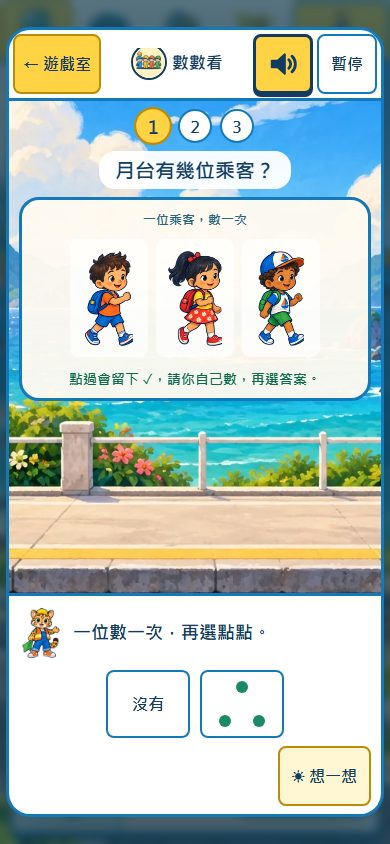
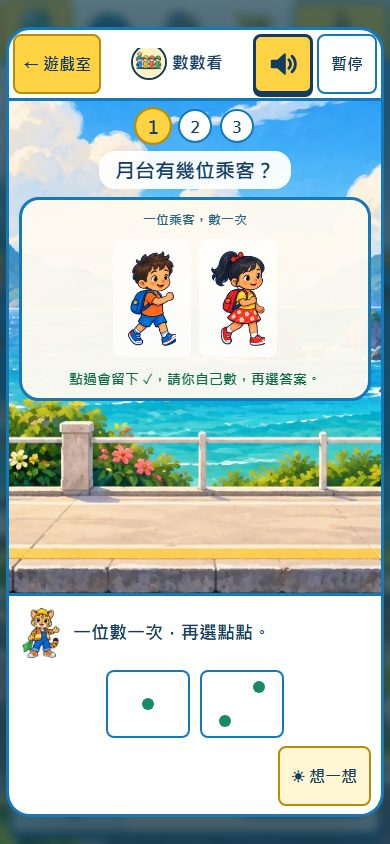
R49 上線前小修：顏色名字不拆行、數數看「0」改成圖、提示逗號查證
獨立複評 8.4 分可上線，上線前修三件小事（MUSE 要求的 9 張重畫照主控指示不做）：
- 橫式轉轍器提示第一行只剩「紫色」：phrase-wrap.js 把「顏色（＋形狀）＋列車／月台／車廂／箭頭／牌子」當一個名字，名字裡面不換行、可以在名字前面換行；句子開頭的名字後面不換行，第一個換行點至少在兩個詞之後。
- 數數看答案「沒有」改成空的骰子格加大「0」，按鈕無障礙名稱改為「答案 0，沒有」。
- 數數看提示的逗號：原文三種尺寸都是同一句「一位數一次，再選點點。」，本來就是全形逗號；直式截圖看起來像「・」，是微軟正黑體把逗號放在字格中間、1 倍 JPEG 縮小的結果。字沒改，附 3 倍放大證據。
- 測試：room-fix-r49.test.js 新增三項（所有顏色×形狀組合的提示不拆名字、第一行不只一個詞且名單和 RAIL_COLORS／RAIL_SHAPES 一致；0 的圖與無障礙名稱；三種年齡的提示都用全形逗號）。沒有改動或放寬既有測試。
- 瀏覽器檢查補上：第一行只剩一個詞、顏色／形狀跟後面的名詞分在兩行、三種尺寸的數數看提示文字要相同，並在真的提示泡泡裡逐一量 30 種顏色＋形狀開場提示；三種尺寸 0 個問題。重拍受影響截圖，新增 play-count-zero-phone.jpg、count-hint-comma-3x.png。

Changed region(s): [[0.2154, 0.2773, 0.7692, 0.4313], [0.5846, 0.8009, 0.6769, 0.8626], [0.3385, 0.8009, 0.4308, 0.8626]]

diff --git a/tests/math/room-fix-r49.test.js b/tests/math/room-fix-r49.test.js
@@ -64,3 +64,55 @@ test('R49 fix: one hint label everywhere, bigger counting passengers, and room t
   assert.match(css, /\.room-card-copy small\{font-size:13px;/, 'age line on cards 13 px');
   for (const [, size] of css.matchAll(/font-size:(\d+(?:\.\d+)?)px/g)) assert.ok(Number(size) >= 12, `room.css font-size ${size}px`);
 });
+
+// ---- 上線前小修（獨立複評 8.4 之後） ----
+import { LABEL_COLORS, LABEL_SHAPES, LABEL_NOUNS } from '../../src/shared/phrase-wrap.js';
+import { RAIL_COLORS, RAIL_SHAPES } from '../../src/games/puzzles/common.js';
+import { departTrain, switchLevels } from '../../src/games/puzzles/switch-platform.js';
+import { createRound, roundGuide } from '../../src/games/math/room-play.js';
+import { seededRandom } from '../../src/games/math/engine.js';
+
+test('R49 上線前: colour and shape names stay glued to 列車／月台 and the first line is never a single word', () => {
+  for (const c of Object.values(RAIL_COLORS)) assert.ok(LABEL_COLORS.includes(c.name), `${c.name} covered`);
+  for (const s of Object.values(RAIL_SHAPES)) assert.ok(LABEL_SHAPES.includes(s.name), `${s.name} covered`);
+  const names = [];
+  for (const c of LABEL_COLORS) for (const s of ['', ...LABEL_SHAPES]) for (const n of LABEL_NOUNS) names.push(c + s + n);
+  const hints = new Set();
+  for (const name of names) for (const other of names) hints.add(`${name}要開到${other}。點黃色的箭頭換方向，看亮起來的路通到哪裡。`);
+  for (const age of ['3-4', '5-6', '7-8']) for (let level = 0; level < switchLevels(age).length; level++) for (let seed = 1; seed < 25; seed++) {
+    let round = createSwitchRound({ age, level, seed });
+    hints.add(switchHint(round));
+    for (let n = 0; n < 4; n++) { const step = departTrain(round); hints.add(switchHint(step.round, step.result)); round = step.round; }
+  }
+  for (const text of hints) {
+    const html = phraseHtml(text), parts = html.split('<wbr>');
+    let at = 0;
+    for (const part of parts.slice(0, -1)) {
+      at += part.length;
+      for (const name of names) for (let i = text.indexOf(name); i >= 0; i = text.indexOf(name, i + 1))
+        assert.ok(at <= i || at >= i + name.length, `「${name}」 split in ${text}`);
+    }
+    if (parts.length > 1) {
+      const first = parts[0].replace(/[，、。！？]/g, '');
+      assert.ok(!names.includes(first) && !LABEL_COLORS.includes(first) && [...first].length > 2, `first line could be just 「${first}」 in ${text}`);
+    }
+  }
+});
+
+test('R49 上線前: zero is a picture (empty dice frame with a big 0), the label still says 沒有', () => {
+  const ui = read('src/games/math/room-ui.js'), css = read('src/games/math/room.css');
+  assert.match(ui, /n === 0 \? '<span class="dot-card dice dice-zero" aria-hidden="true"><b>0<\/b><\/span>'/);
+  assert.doesNotMatch(ui, /zero-dots|>沒有</, 'no 沒有 text on the button face');
+  assert.match(ui, /Number\(value\) === 0 \? '答案 0，沒有'/, 'screen readers still hear 沒有');
+  assert.match(css, /\.dot-card\.dice-zero\{[^}]*border:3px dashed/);
+  assert.match(css, /\.dot-card\.dice-zero b\{font:900 30px/);
+});
+
+test('R49 上線前: the counting hint uses the full-width comma at every age', () => {
+  for (const level of ['small', 'medium', 'large']) {
+    const round = createRound({ game: 'count', level, rng: seededRandom(5) });
+    const action = roundGuide(round).action;
+    assert.match(action, /^一位數一次，再選(點點|人數)。$/, action);
+    assert.doesNotMatch(action, /[・·•]/);
+  }
+});

diff --git a/src/shared/phrase-wrap.js b/src/shared/phrase-wrap.js
@@ -10,19 +10,37 @@ const CJK = /[\u3400-\u9fff]/;
 
 // 斷詞常切錯、但小朋友看到一定要連在一起的詞（例如「接上／下一節」被切成「上下｜一節」）。
 const KEEP = ['下一節', '上一節', '下一題', '下一站', '上一站', '下一班', '一樣多', '一樣重', '一樣長'];
+// 上線前小修：顏色＋形狀＋列車／月台是一個名字（「紫色列車」「紅色三角形月台」），整組黏在一起，不能讓第一行只剩「紫色」。
+// 名字前面可以換行（「要開到｜紅色三角形月台」），名字裡面不行。顏色、形狀和遊戲的 RAIL_COLORS／RAIL_SHAPES 一致（測試會核對）。
+export const LABEL_COLORS = Object.freeze(['藍色', '綠色', '紫色', '紅色', '橘色', '黃色']);
+export const LABEL_SHAPES = Object.freeze(['圓形', '三角形', '方形', '星星']);
+export const LABEL_NOUNS = Object.freeze(['列車', '月台', '車廂', '箭頭', '牌子']);
+const alt = list => list.join('|');
+const LABEL = new RegExp(`(${alt(LABEL_COLORS)})?(${alt(LABEL_SHAPES)})?(${alt(LABEL_NOUNS)})?`, 'g');
+const PUNCT = /[，、。！？；：,.!?;:\s「」『』（）]/;
 
 /** Escaped HTML for one line of child-facing Chinese text, with <wbr> only between two real (2+ character) words. */
 export function phraseHtml(text, { segment = segmenter } = {}) {
   const value = String(text ?? '');
   if (!segment) return esc(value);
-  const inside = new Set();
+  const inside = new Set(), before = new Set();
   for (const word of KEEP) for (let at = value.indexOf(word); at >= 0; at = value.indexOf(word, at + 1)) for (let i = 1; i < word.length; i++) inside.add(at + i);
-  let out = '', prev = null, pos = 0;
+  for (const m of value.matchAll(LABEL)) {
+    if (!m[0] || m.slice(1).filter(Boolean).length < 2) continue; // 至少兩段：顏色＋列車、顏色＋形狀、形狀＋月台…
+    const start = m.index, end = start + m[0].length;
+    for (let i = start + 1; i < end; i++) inside.add(i);
+    const clauseStart = start === 0 || PUNCT.test(value[start - 1]);
+    if (!clauseStart && CJK.test(value[start - 1])) before.add(start); // 「要開到｜紅色三角形月台」
+    if (clauseStart) inside.add(end); // 句子開頭的名字後面不斷，第一行不會只剩一個名字
+  }
+  let out = '', prev = null, pos = 0, words = 0;
   for (const { segment: piece, isWordLike } of segment.segment(value)) {
     const word = isWordLike && CJK.test(piece);
-    if (word && prev && [...prev].length >= 2 && [...piece].length >= 2 && !inside.has(pos)) out += '<wbr>';
+    // 第一個 <wbr> 至少要在兩個詞之後，第一行不會只剩一個詞（例如「看看｜車廂的規律」不斷在「看看」後面）。
+    if (words >= 2 && !inside.has(pos) && (before.has(pos) || (word && prev && [...prev].length >= 2 && [...piece].length >= 2))) out += '<wbr>';
     out += esc(piece);
     prev = word ? piece : null;
+    if (word) words++;
     pos += piece.length;
   }
   return out;

diff --git a/src/games/math/room-ui.js b/src/games/math/room-ui.js
@@ -45,7 +45,8 @@ const DATA_ACTIONS = [['answer', 'answer'], ['count', 'count'], ['order', 'order
 const passenger = index => `<img class="room-person" src="${art(`r5/passenger-${index % 6 + 1}-0.png`)}" alt="" width="48" height="76" draggable="false">`;
 // R49 修正輪：答案點點照骰子排（4 是 2×2、5 是四角加中間、6 是兩直排），3 排成三角形；位置是 3×3 格子的 1～9 號。
 const DICE = { 1: [5], 2: [3, 7], 3: [2, 7, 9], 4: [1, 3, 7, 9], 5: [1, 3, 5, 7, 9], 6: [1, 3, 4, 6, 7, 9], 7: [1, 3, 4, 5, 6, 7, 9], 8: [1, 2, 3, 4, 6, 7, 8, 9], 9: [1, 2, 3, 4, 5, 6, 7, 8, 9] };
-const dotCard = n => n === 0 ? '<span class="zero-dots">沒有</span>' : DICE[n] ? `<span class="dot-card dice" aria-label="${n} 個點">${DICE[n].map(cell => `<i class="dot-p${cell}"></i>`).join('')}</span>` : `<span class="dot-card" aria-label="${n} 個點">${'<i></i>'.repeat(n)}</span>`;
+// 上線前小修：0 不再寫「沒有」兩個字（3～4 歲看不懂），改成空的骰子格加一個大「0」；按鈕的無障礙名稱仍說「沒有」。
+const dotCard = n => n === 0 ? '<span class="dot-card dice dice-zero" aria-hidden="true"><b>0</b></span>' : DICE[n] ? `<span class="dot-card dice" aria-label="${n} 個點">${DICE[n].map(cell => `<i class="dot-p${cell}"></i>`).join('')}</span>` : `<span class="dot-card" aria-label="${n} 個點">${'<i></i>'.repeat(n)}</span>`;
 const ticketPile = n => `<div class="ticket-pile">${'<span class="tiny-ticket" aria-hidden="true">🎟</span>'.repeat(n)}</div>`;
 function scene(round) {
   const q = currentQuestion(round);
@@ -69,7 +70,7 @@ function choices(round) {
   return `<div class="answers answers-${q.game}" role="group" aria-label="選一個答案">${q.choices.map(value => {
     const label = q.game === 'clock' ? clockLabel(value) : q.game === 'compare' ? { left: '左邊多', right: '右邊多', equal: '一樣多' }[value]
       : q.game === 'pattern' ? `${patternToken(q, value)}<small>${esc(patternName(q, value))}</small>` : q.level === 'small' ? dotCard(value) : value;
-    const aria = q.game === 'pattern' ? patternName(q, value) : q.game === 'compare' || q.game === 'clock' ? label : `答案 ${value}`;
+    const aria = q.game === 'pattern' ? patternName(q, value) : q.game === 'compare' || q.game === 'clock' ? label : Number(value) === 0 ? '答案 0，沒有' : `答案 ${value}`;
     return `<button type="button" class="answer-number" data-answer="${esc(value)}" aria-label="${esc(aria)}">${label}</button>`;
   }).join('')}</div>`;
 }

diff --git a/src/games/math/room.css b/src/games/math/room.css
@@ -97,7 +97,9 @@
 .dot-card.dice{grid-template-rows:repeat(3,12px)}
 .dot-p1{grid-area:1/1}.dot-p2{grid-area:1/2}.dot-p3{grid-area:1/3}.dot-p4{grid-area:2/1}.dot-p5{grid-area:2/2}.dot-p6{grid-area:2/3}.dot-p7{grid-area:3/1}.dot-p8{grid-area:3/2}.dot-p9{grid-area:3/3}
 .dot-card i{width:12px;height:12px;border-radius:50%;background:var(--room-green)}
-.zero-dots{font-size:16px}
+/* 上線前小修：0 是空的骰子格加大「0」 */
+.dot-card.dice-zero{display:grid;grid-template:1fr/1fr;place-items:center;width:46px;height:46px;border:3px dashed var(--room-green);border-radius:10px;background:#f2fbf6}
+.dot-card.dice-zero b{font:900 30px/1 'Microsoft JhengHei','PingFang TC',sans-serif;color:var(--room-green)}
 .stage-label{font-size:13px;font-weight:800;color:#276581}
 /* count */
 .passengers{display:flex;flex-wrap:wrap;justify-content:center;gap:8px;max-width:680px}

diff --git a/scripts/check-r49-room-icons.py b/scripts/check-r49-room-icons.py
@@ -12,7 +12,7 @@ Fix round: Chinese line breaks only between words or after punctuation (card tex
 switch coach), no last line of one or two characters, room home text >= 12 px, one hint label, bigger passengers.
 Writes docs/evidence/r49/room-check.json and, with --shots, the evidence screenshots (JPEG).
 """
-import argparse, json, sys, time
+import argparse, json, re, sys, time
 sys.stdout.reconfigure(encoding="utf-8", errors="replace")
 from pathlib import Path
 from playwright.sync_api import sync_playwright
@@ -43,7 +43,12 @@ BREAKS = r"""
       lastTop = r.top; lines.at(-1).push(c.ch);
     });
     const last = lines.at(-1).join('').replace(/[，、。！？；：,.!?;:\s✓]/g, '');
-    out.push({ text: lines.map(l => l.join('')).join('｜'), split, shortLast: lines.length > 1 && [...last].length <= 2 });
+    const first = lines[0].join('').replace(/[，、。！？；：,.!?;:\s✓]/g, '');
+    // 上線前小修：第一行不可以只剩一個顏色、形狀或一個詞；顏色／形狀不可以跟後面的列車、月台分在兩行。
+    const COLOR = '(藍色|綠色|紫色|紅色|橘色|黃色)', SHAPE = '(圓形|三角形|方形|星星)', NOUN = '(列車|月台|車廂|箭頭|牌子)';
+    const loneFirst = lines.length > 1 && ([...first].length <= 2 || new RegExp(`^${COLOR}?${SHAPE}?${NOUN}?$`).test(first));
+    const nameSplit = lines.slice(1).some((l, i) => new RegExp(`(${COLOR}|${SHAPE})$`).test(lines[i].join('').replace(/\s/g, '')) && new RegExp(`^(${SHAPE}|${NOUN})`).test(l.join('')));
+    out.push({ text: lines.map(l => l.join('')).join('｜'), split, shortLast: lines.length > 1 && [...last].length <= 2, loneFirst, nameSplit });
   }
   return out;
 }
@@ -166,6 +171,7 @@ def run(base, shots, chrome=None):
               return { speaker: { w: Math.round(r.width), h: Math.round(r.height), bg: cs.backgroundColor, border: cs.borderTopColor, svg: !!s.querySelector('svg'), emoji: s.textContent.includes('🔊') },
                 coachFontPx: parseFloat(getComputedStyle(coach).fontSize), titleIcon: t ? t.naturalWidth > 0 : null,
                 hint: document.querySelector('#math-room .room-hint')?.textContent.trim(),
+                coachText: coach.innerText.trim(),
                 personH: Math.round(document.querySelector('#math-room .person')?.getBoundingClientRect().height || 0),
                 personImgH: Math.round(document.querySelector('#math-room .room-person')?.getBoundingClientRect().height || 0) }; }""")
             row['play']['breaks'] = page.evaluate(BREAKS, '#math-room .room-coach span, #room-question-title')
@@ -187,6 +193,17 @@ def run(base, shots, chrome=None):
                 coachFontPx: parseFloat(getComputedStyle(coach).fontSize), coachText: d.querySelector('.rp-cue').textContent }; }""")
             row['switch']['layout'] = measure(page, '#rail-play')
             row['switch']['breaks'] = page.evaluate(BREAKS, '#rail-play .rp-cue')
+            # 上線前小修：每一種顏色（＋形狀）列車／月台的開場提示都放進真的提示泡泡量一次，不只量這一關抽到的顏色。
+            row['switch']['allNames'] = page.evaluate("""async (breaks) => {
+              const { phraseHtml, LABEL_COLORS, LABEL_SHAPES } = await import('/src/shared/phrase-wrap.js');
+              const cue = document.querySelector('#rail-play .rp-cue'), keep = cue.innerHTML, measure = eval(breaks), bad = [];
+              for (const c of LABEL_COLORS) for (const s of ['', ...LABEL_SHAPES]) {
+                cue.innerHTML = phraseHtml(`${c}${s}列車要開到${c}${s}月台。點黃色的箭頭換方向，看亮起來的路通到哪裡。`);
+                for (const b of measure('#rail-play .rp-cue')) if (b.split.length || b.shortLast || b.loneFirst || b.nameSplit) bad.push(b.text);
+              }
+              cue.innerHTML = keep;
+              return { checked: LABEL_COLORS.length * (LABEL_SHAPES.length + 1), bad };
+            }""", BREAKS)
             if shots:
                 page.screenshot(path=str(OUT / f'switch-from-room-{tag}.jpg'), type='jpeg', quality=82)
             page.click('#rail-play .rp-back'); page.wait_for_timeout(600)
@@ -221,9 +238,14 @@ def summarize(report):
             for b in items:
                 if b['split']: problems.append(f'{t} {where}: word split {b["split"]} in {b["text"]}')
                 if b['shortLast']: problems.append(f'{t} {where}: short last line in {b["text"]}')
+                if b.get('loneFirst'): problems.append(f'{t} {where}: first line is a single word in {b["text"]}')
+                if b.get('nameSplit'): problems.append(f'{t} {where}: colour/shape split from its noun in {b["text"]}')
         for tab, i in row['tabs'].items():
             if i['smallText']: problems.append(f'{t} {tab} text under 12px: {i["smallText"][:4]}')
         if row['play']['hint'] != '☀ 想一想': problems.append(f'{t} hint label {row["play"]["hint"]!r}')
+        if row['play']['coachText'] != report[0]['play']['coachText'] or re.search('[・·•]', row['play']['coachText']):
+            problems.append(f'{t} counting hint text differs: {row["play"]["coachText"]!r}')
+        if row['switch']['allNames']['bad']: problems.append(f"{t} switch coach names: {row['switch']['allNames']['bad'][:3]}")
         sp = row['play']['speaker']
         if sp['emoji'] or not sp['svg'] or sp['w'] < 60 or sp['h'] < 60: problems.append(f'{t} room speaker {sp}')
         sw = row['switch']

diff --git a/docs/REVIEW_R49.md b/docs/REVIEW_R49.md
@@ -56,3 +56,13 @@
 - MUSE 評分 5.5／10，不建議正式上線。它認為「火車家族」撞臉：排車廂、規律小火車都是側面車廂；拆合調度台、指令小司機、單線會車都是火車頭；調車場的線太多。它建議再改 9 張：排車廂、規律小火車、拆合調度台、單線會車、調車場、路線小工程師、指令小司機、眼力找不同、月台時刻表。
 - 其中兩點跟圖不符：圖上的排車廂有 1、2、3；單線會車是一條軌道兩車對頭。MUSE 這幾輪的分數在 5.5～8.6 之間跳動，同一張圖常在不同輪得到相反的判定。最後兩輪名稱都對中，但它對「單看圖示一眼就懂」的要求越來越嚴。這輪沒有再重畫，交給主控決定是否另開一輪。
 - MUSE 對實際畫面的意見：沒有把詞拆開；數數看乘客放大、骰子點點、「想一想」統一都做到；轉轍器關卡畫面是四張裡最好的。
+
+## 複評 8.4 與上線前小修（2026-11-24）
+
+獨立 Claude 複評 8.4 分，評為可以上線。主控決定 MUSE 要求的 9 張重畫不做，只修下面三件小事。
+
+| 問題 | 處理 | 怎麼確認 |
+|---|---|---|
+| 橫式轉轍器提示第一行只剩「紫色」，把「紫色列車」拆開 | `phrase-wrap.js` 把「顏色（＋形狀）＋列車／月台／車廂／箭頭／牌子」當成一個名字，名字裡面不換行。名字前面可以換行，例如「紫色列車要開到｜紫色月台」。句子開頭的名字後面不換行，第一個換行點至少在兩個詞之後，所以第一行不會只剩一個詞。 | 新測試核對顏色、形狀名單跟遊戲用的 `RAIL_COLORS`／`RAIL_SHAPES` 一致，並把所有顏色×形狀組合的提示和三種年齡各關抽出的提示都跑一遍。瀏覽器檢查在三種尺寸的真實提示泡泡裡逐一放進 30 種顏色＋形狀開場提示量斷行：沒有拆開名字，第一行也沒有只剩一個詞。 |
+| 數數看的答案「沒有」是文字，3～4 歲看不懂 | 改成綠色虛線的空骰子格加一個大「0」。按鈕的無障礙名稱改成「答案 0，沒有」。 | 新測試；截圖 `play-count-zero-phone.jpg`。 |
+| 數數看提示直式像「一位數一次・再選點點。」，橫式是「，」 | 查過原文：三種尺寸都是同一句「一位數一次，再選點點。」，用的就是全形逗號「，」。微軟正黑體的全形逗號照台灣習慣放在字格中間，直式截圖是 1 倍解析度的 JPEG，縮小後看起來像中間點。放大 3 倍可以看出兩個方向是同一個逗號（`count-hint-comma-3x.png`）；實際手機是 2～3 倍螢幕，看得出是逗號。字沒有改。 | 新測試確認三種年齡的數數看提示都用全形逗號、沒有「・」；瀏覽器檢查比對三種尺寸的提示文字完全相同。 |
